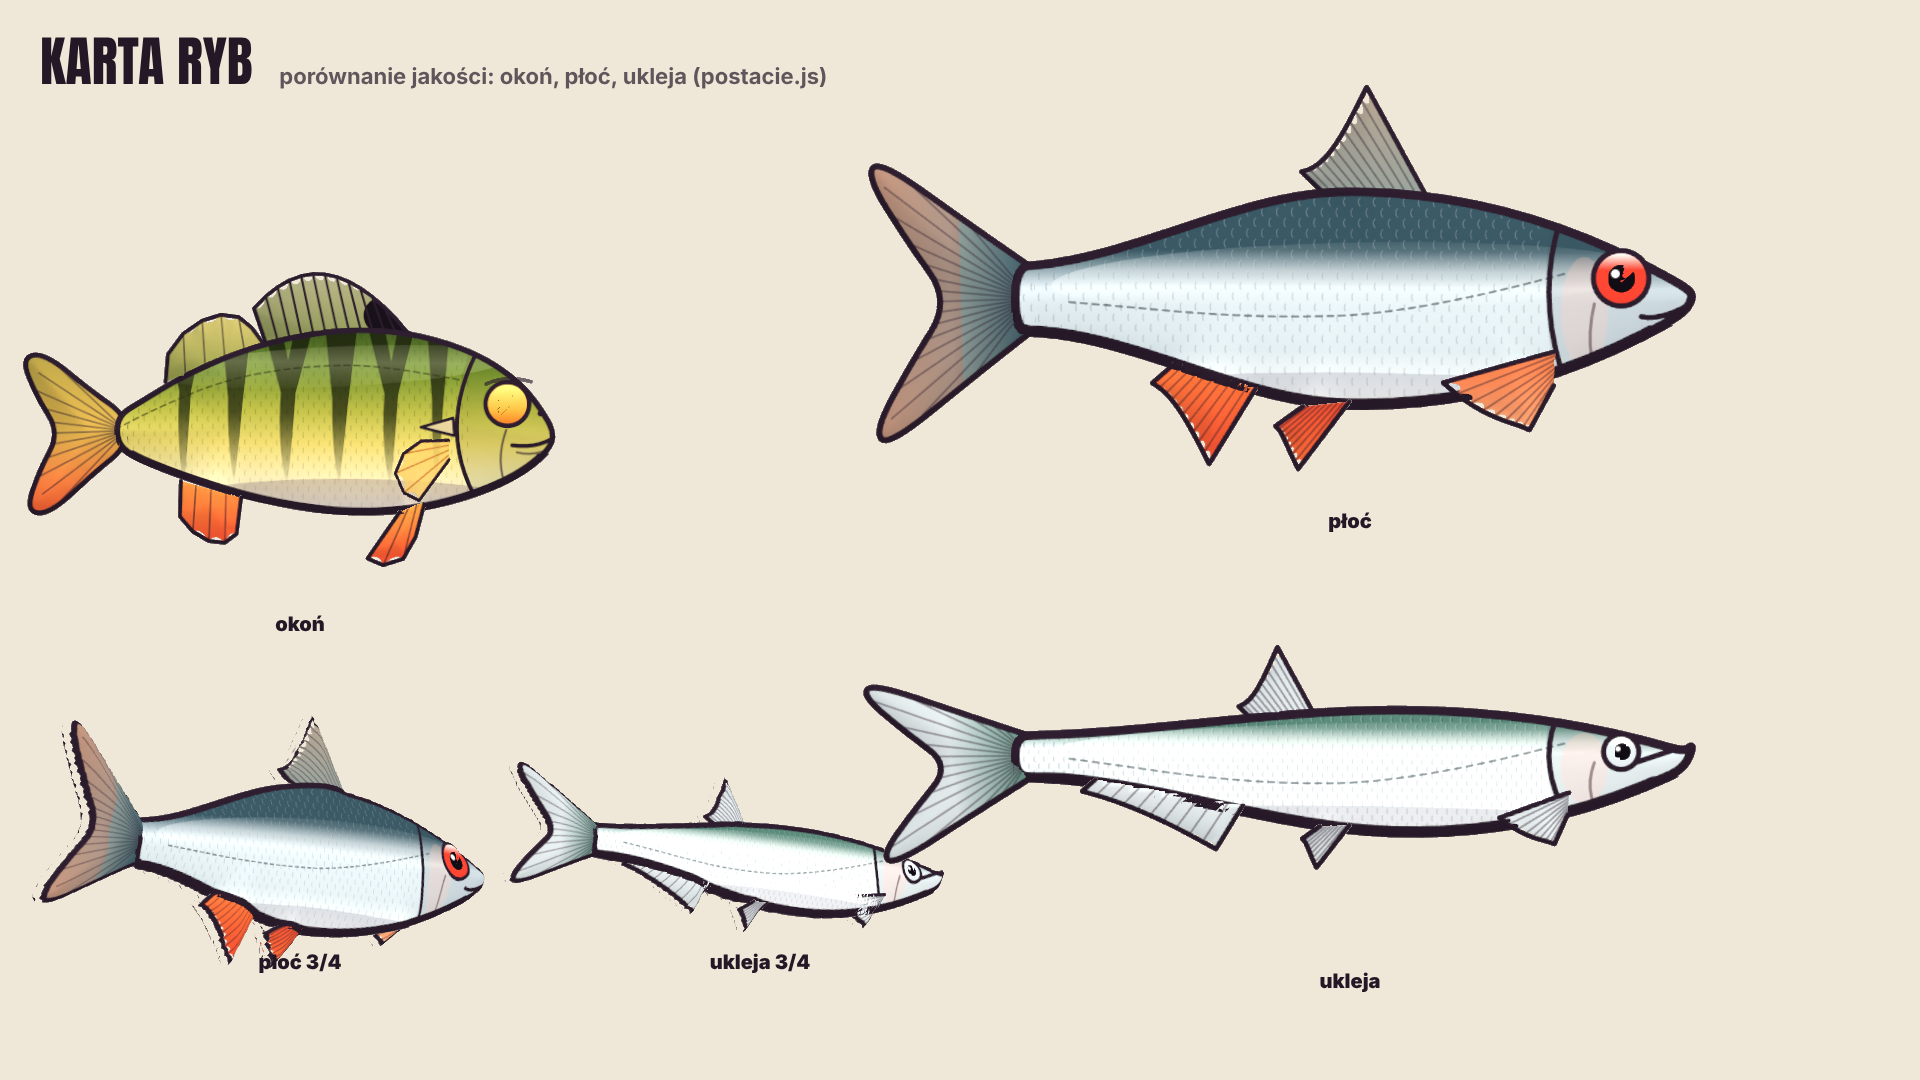
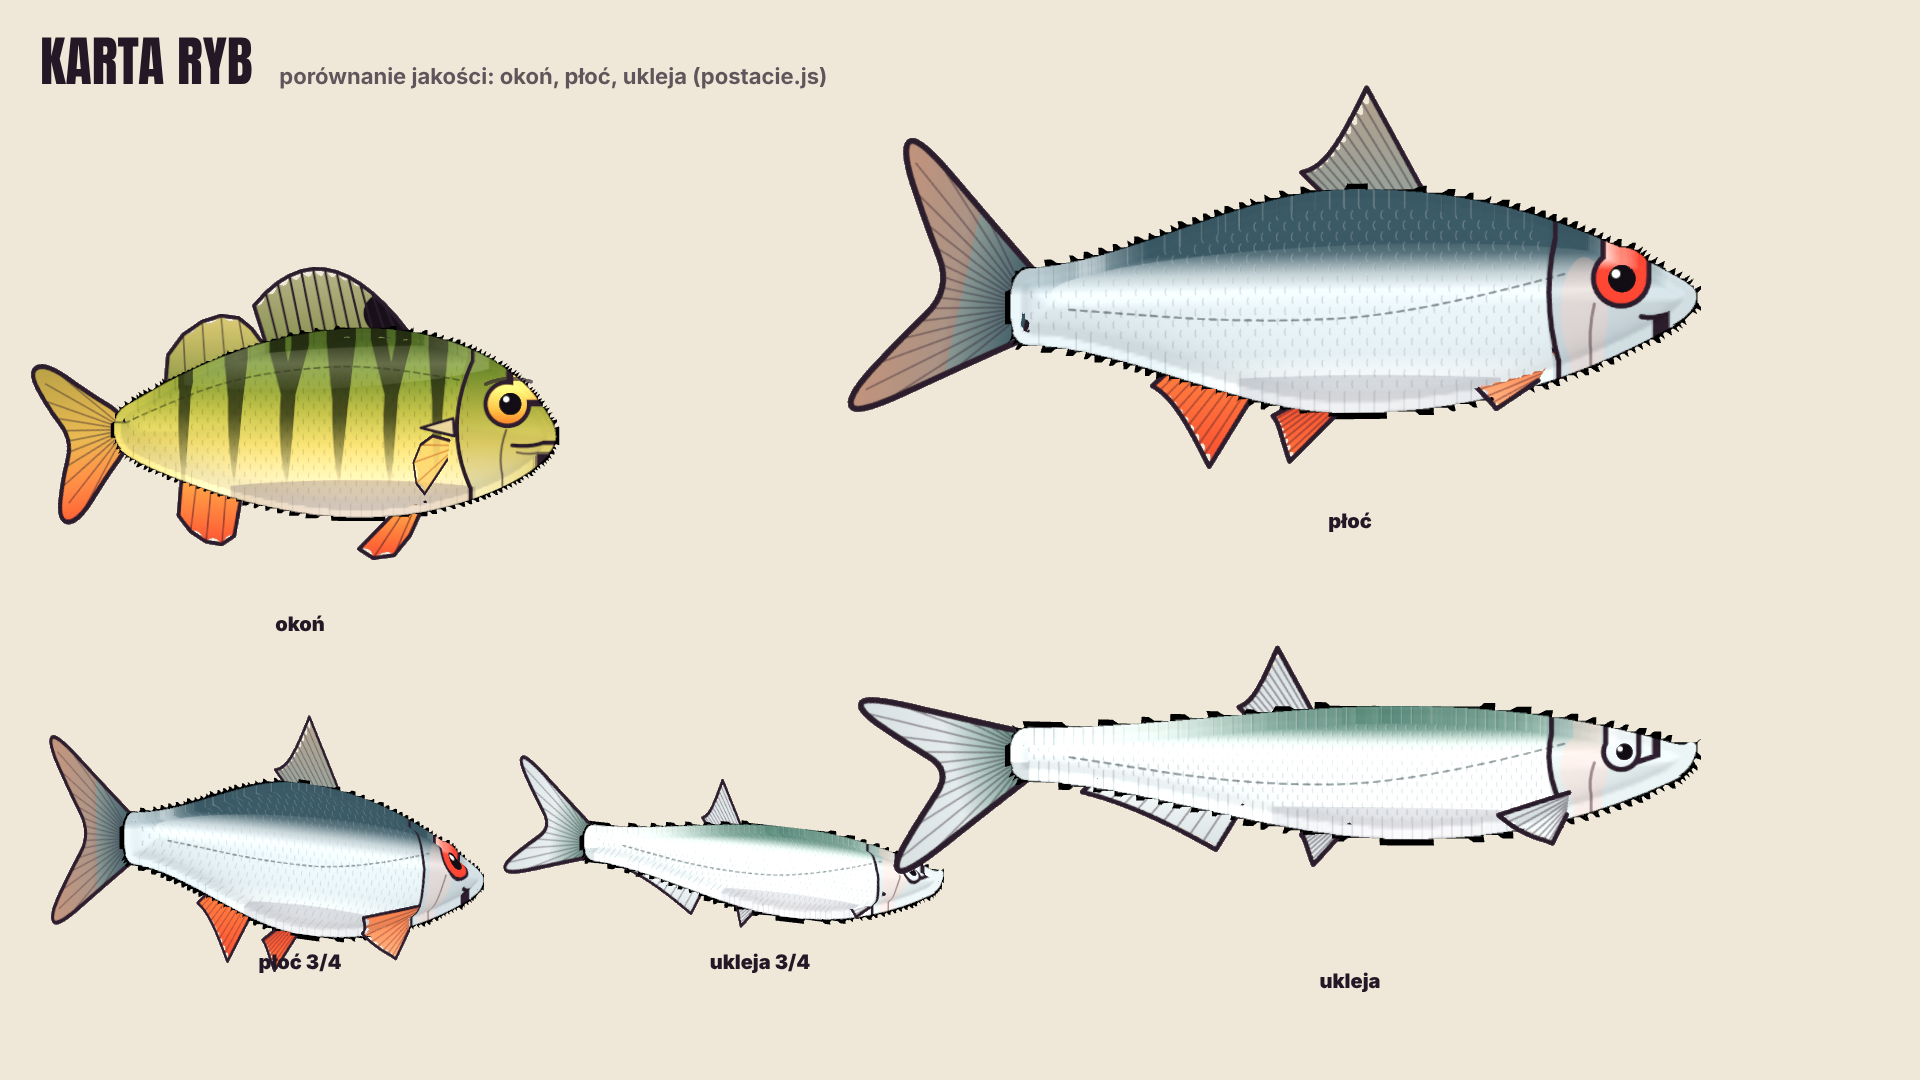
Ryby 3D bez czarnej kreski na boku: kontur z rysunku zamalowany na bryle, gładka sylwetka siatki, obrys sylwetki w kompozycji silnika
Claude-Session: https://claude.ai/code/session_01YFDAx3363ZnHR5mXZwci3a

diff --git a/atlas3d/postacie.js b/atlas3d/postacie.js
@@ -69,15 +69,30 @@ function zloz(czesci, kolejnoscBazowa, opcje3d = {}) {
 // Części wyżej w kolejności (oko, brew, ręka) leżą odrobinę nad powierzchnią, więc widać je z obu stron.
 // T – połowa grubości (px projektu; domyślnie 22% krótszego boku sylwetki), D – szerokość zaokrąglenia brzegu (px).
 // Oświetlenie: Lambert z rysunkiem także jako emisją – kolory jak w rysunku, a światło sceny dodaje objętość.
-const SIATKA = 6;   // krok siatki w px projektu
+const SIATKA = 4;
+// pas przy krawędzi sylwetki (szer px) wypełnia kolorem najbliższego piksela z wnętrza (BFS od wnętrza na zewnątrz); alfa bez zmian
+function zetrzyjKontur(cv, szer, tex) {
+  const g = cv.getContext('2d'), W = cv.width, H = cv.height, im = g.getImageData(0, 0, W, H), d = im.data, N = W * H;
+  const dist = new Float32Array(N).fill(1e9), q = new Int32Array(N); let h = 0, t = 0;
+  for (let i = 0; i < N; i++) if (d[i * 4 + 3] < 40) { dist[i] = 0; q[t++] = i; }
+  while (h < t) { const i = q[h++], x = i % W, y = (i / W) | 0, nd = dist[i] + 1; if (nd > szer + 2) continue;
+    for (const [dx, dy] of [[1, 0], [-1, 0], [0, 1], [0, -1]]) { const xx = x + dx, yy = y + dy; if (xx < 0 || yy < 0 || xx >= W || yy >= H) continue; const j = yy * W + xx; if (dist[j] > nd) { dist[j] = nd; q[t++] = j; } } }
+  // od wnętrza (dist > szer) rozlej kolor na pas – także na przezroczyste piksele (alfa bez zmian), żeby filtrowanie tekstury nie wciągało czerni na brzeg
+  const src = new Int32Array(N).fill(-1); h = 0; t = 0;
+  for (let i = 0; i < N; i++) if (d[i * 4 + 3] >= 40 && dist[i] > szer) { src[i] = i; if (dist[i] <= szer + 2) q[t++] = i; }
+  while (h < t) { const i = q[h++], x = i % W, y = (i / W) | 0;
+    for (const [dx, dy] of [[1, 0], [-1, 0], [0, 1], [0, -1]]) { const xx = x + dx, yy = y + dy; if (xx < 0 || yy < 0 || xx >= W || yy >= H) continue; const j = yy * W + xx;
+      if (src[j] < 0) { src[j] = src[i]; const k = src[i] * 4; d[j * 4] = d[k]; d[j * 4 + 1] = d[k + 1]; d[j * 4 + 2] = d[k + 2]; q[t++] = j; } } }
+  g.putImageData(im, 0, 0); if (tex) tex.needsUpdate = true;
+}   // krok siatki w px projektu
 // bryla – części tworzące objętość (domyślnie największa część, np. ciało ryby); płetwy, ogon i inne części poza bryłą są cienkie
 // (płaskie jak prawdziwa płetwa – bez „dwóch warstw” widocznych od tyłu), a części leżące na bryle przylegają do jej powierzchni
-function nadmuchaj(czesci, { T, D, plaskie = [], bryla } = {}) {
+function nadmuchaj(czesci, { T, D, plaskie = [], bryla, ob = 15 } = {}) {
   if (bryla === undefined) { let mx = 0; for (const c of czesci) { const [a, b, cc, d] = c.userData.bbox, pole = (cc - a) * (d - b); if (pole > mx) { mx = pole; bryla = [c]; } } }
   if (bryla === 'wszystko') bryla = czesci;
   let X0 = 1e9, Y0 = 1e9, X1 = -1e9, Y1 = -1e9;
   for (const c of czesci) { const [a, b, cc, d] = c.userData.bbox; X0 = Math.min(X0, a); Y0 = Math.min(Y0, b); X1 = Math.max(X1, cc); Y1 = Math.max(Y1, d); }
-  const k = 1 / SIATKA * 2, uw = Math.ceil((X1 - X0) * k) + 2, uh = Math.ceil((Y1 - Y0) * k) + 2;   // maska sumy w siatce co 3 px
+  const k = 1, uw = Math.ceil((X1 - X0) * k) + 2, uh = Math.ceil((Y1 - Y0) * k) + 2;   // maska sumy w siatce co 3 px
   const cvU = document.createElement('canvas'); cvU.width = uw; cvU.height = uh; const gu = cvU.getContext('2d');
   const obrazy = c => [c.userData.cv, ...Object.values(c.userData.mapy || {}).map(t => t.image)];
   for (const c of bryla) { const [a, b, cc, d] = c.userData.bbox; for (const im of obrazy(c)) gu.drawImage(im, (a - X0) * k + 1, (b - Y0) * k + 1, (cc - a) * k, (d - b) * k); }
@@ -92,7 +107,7 @@ function nadmuchaj(czesci, { T, D, plaskie = [], bryla } = {}) {
   T = T ?? .22 * Math.min(X1 - X0, Y1 - Y0); D = D ?? Math.max(8, dmax * .85);
   const H = (x, y) => { const gx = (x - X0) * k + 1, gy = (y - Y0) * k + 1, ix = Math.max(0, Math.min(uw - 2, Math.floor(gx))), iy = Math.max(0, Math.min(uh - 2, Math.floor(gy))), fx = gx - ix, fy = gy - iy;
     const v = (dist[iy * uw + ix] * (1 - fx) + dist[iy * uw + ix + 1] * fx) * (1 - fy) + (dist[(iy + 1) * uw + ix] * (1 - fx) + dist[(iy + 1) * uw + ix + 1] * fx) * fy;
-    const u = Math.min(1, v / k / D); return T * Math.sqrt(Math.max(0, 1 - (1 - u) * (1 - u))); };
+    const u = Math.min(1, Math.max(0, v / k - ob) / D); return T * Math.sqrt(Math.max(0, 1 - (1 - u) * (1 - u))); };   // pas konturu z rysunku (ob px) leży płasko na szwie – pod kątem nie widać go jako czarnej kreski na boku
   const kolMax = Math.max(...czesci.map(c => c.userData.kolejnosc)) || 1;
   for (const c of czesci) {
     const { bbox: [a, b, cc, d], s, piwot, res } = c.userData, plaska = plaskie.includes(c);
@@ -109,7 +124,12 @@ function nadmuchaj(czesci, { T, D, plaskie = [], bryla } = {}) {
       for (let j = 0; j <= ny; j++) for (let i = 0; i <= nx; i++) {
         const uzyty = [[0, 0], [-1, 0], [0, -1], [-1, -1]].some(([di, dj]) => { const ii = i + di, jj = j + dj; return ii >= 0 && jj >= 0 && ii < nx && jj < ny && [[0, 0], [1, 0], [0, 1], [1, 1]].some(([ei, ej]) => al[(jj + ej) * (nx + 1) + ii + ei]); });
         if (!uzyty) continue;
-        const x = a + (cc - a) * i / nx, y = b + (d - b) * j / ny, h = al[j * (nx + 1) + i] ? (plaska ? T * .04 : H(x, y)) + eps : 0;
+        let x = a + (cc - a) * i / nx, y = b + (d - b) * j / ny; const h = al[j * (nx + 1) + i] ? (plaska ? T * .04 : H(x, y)) + eps : 0;
+        if (!al[j * (nx + 1) + i] && bryla.includes(c) && bryla !== czesci) {   // węzeł brzegu bryły: dosuń do prawdziwego konturu (gładka sylwetka zamiast schodków siatki)
+          let best = 1e9, bx = x, by = y; const R = SIATKA * 1.6;
+          for (let dy = -R; dy <= R; dy++) for (let dx = -R; dx <= R; dx++) { const gx = Math.round((x + dx - X0) * k + 1), gy = Math.round((y + dy - Y0) * k + 1);
+            if (gx < 0 || gy < 0 || gx >= uw || gy >= uh || !dist[gy * uw + gx]) continue; const dd = dx * dx + dy * dy; if (dd < best) { best = dd; bx = x + dx; by = y + dy; } }
+          if (best < 1e9) { x = bx; y = by; } }
         nr[j * (nx + 1) + i] = poz.length / 3; poz.push((x - piwot[0]) * s, (piwot[1] - y) * s, (strona ? -h : h) * s); uv.push(i / nx, 1 - j / ny); }
       for (let j = 0; j < ny; j++) for (let i = 0; i < nx; i++) { const v00 = nr[j * (nx + 1) + i], v10 = nr[j * (nx + 1) + i + 1], v01 = nr[(j + 1) * (nx + 1) + i], v11 = nr[(j + 1) * (nx + 1) + i + 1];
         if ([v00, v10, v01, v11].some(v => v < 0)) continue;
@@ -117,10 +137,25 @@ function nadmuchaj(czesci, { T, D, plaskie = [], bryla } = {}) {
         if (strona) idx.push(v00, v10, v01, v10, v11, v01); else idx.push(v00, v01, v10, v10, v01, v11); }
     }
     const geo = new THREE.BufferGeometry(); geo.setAttribute('position', new THREE.Float32BufferAttribute(poz, 3)); geo.setAttribute('uv', new THREE.Float32BufferAttribute(uv, 2)); geo.setIndex(idx); geo.computeVertexNormals();
+    if (bryla.includes(c) && bryla !== czesci) {   // szew (h = 0): normalna w płaszczyźnie sylwetki, z gradientu pola odległości (gładka, skierowana na zewnątrz)
+      const P = geo.attributes.position, Nn = geo.attributes.normal, D0 = (x, y) => { const gx = Math.round((x - X0) * k + 1), gy = Math.round((y - Y0) * k + 1); return gx < 0 || gy < 0 || gx >= uw || gy >= uh ? 0 : Math.min(dist[gy * uw + gx], 40); };
+      for (let i = 0; i < P.count; i++) { if (Math.abs(P.getZ(i)) > 1e-6) continue; const x = P.getX(i) / s + piwot[0], y = piwot[1] - P.getY(i) / s;
+        let gx = 0, gy = 0; for (const r of [3, 6, 9]) { gx += D0(x + r, y) - D0(x - r, y); gy += D0(x, y + r) - D0(x, y - r); }
+        const l = Math.hypot(gx, gy); if (l > 1e-6) Nn.setXYZ(i, -gx / l, gy / l, 0); }
+      Nn.needsUpdate = true; }
     c.geometry.dispose(); c.geometry = geo; c.userData.geo0 = geo.attributes.position.array.slice();
+    if (bryla.includes(c) && bryla !== czesci) zetrzyjKontur(c.userData.cv, (ob + 4) * res, c.material.map);   // kontur rysuje otoczka 3D – pas konturu z rysunku zastąp kolorem ciała
     const map = c.material.map; c.material.dispose();
     c.material = new THREE.MeshLambertMaterial({ map, emissiveMap: map, emissive: '#ffffff', emissiveIntensity: 1, color: '#ffffff', transparent: true, alphaTest: .35, depthWrite: true, side: THREE.FrontSide });
     c.material.userData.jasnosc = .5; c.material.color.setScalar(.5);
+    if (bryla.includes(c) && bryla !== czesci) { c.material.alphaTest = 0; c.material.transparent = false; }   // bryła: kształt wyznacza siatka, bez dziur przy brzegu (przez dziury prześwitywał czarny kontur)
+    // kontur bryły (odwrócona otoczka): czarna skorupa widoczna tylko na krawędzi sylwetki pod każdym kątem; wspólna geometria – podąża za falą ciała
+    if (false && bryla.includes(c) && bryla !== czesci) {   // (wyłączone) otoczka 3D – kontur sylwetki rysuje teraz kompozycja silnika (obrys maski postaci)
+      const om = new THREE.MeshBasicMaterial({ color: INK, side: THREE.BackSide, toneMapped: false, polygonOffset: true, polygonOffsetFactor: 40, polygonOffsetUnits: 60 }), gr = (bryla[0] === c ? 10 : 8) * s;
+      om.onBeforeCompile = sh => { sh.vertexShader = sh.vertexShader.replace('#include <begin_vertex>', `#include <begin_vertex>\n  transformed += normalize(normal) * ${gr.toFixed(5)};`); };
+      om.customProgramCacheKey = () => 'otoczka' + gr.toFixed(5);
+      const ot = new THREE.Mesh(c.geometry, om); ot.layers.set(POSTACIE); ot.renderOrder = c.renderOrder - 1; ot.userData.otoczka = true; c.add(ot); c.userData.otoczka = ot;
+    }
   }
 }
 let licznikPostaci = 0;

diff --git a/atlas3d/silnik.js b/atlas3d/silnik.js
@@ -67,6 +67,10 @@ const kompozycja = new THREE.ShaderMaterial({
       e *= 1. - smoothstep(fogR.x, fogR.y, z) * .75;
       e *= 1. - maska;
       col = mix(col, mix(ink, fogC, smoothstep(fogR.x, fogR.y, z) * .3), e);
+      // kontur sylwetki postaci 3D (ryby, wędkarz, przynęty): obrys maski z zewnątrz – czysta linia pod każdym kątem
+      if (maska < .5) { float o = 0.; for (int i = 0; i < 12; i++) { float a = float(i) * .5236; vec2 d = vec2(cos(a), sin(a)) * texel * 3.2;
+          o = max(o, texture2D(tM, vUv + d).a); o = max(o, texture2D(tM, vUv + d * .5).a); }
+        col = mix(col, ink, smoothstep(.3, .7, o)); }
       // odległość do pierwszej powierzchni (postać 2D przed światem ma pierwszeństwo)
       if (maska > .5 && rawM < raw) { raw = rawM; z = Zt(tMD, vUv); }
       vec4 v = invProj * vec4(vUv * 2. - 1., 1., 1.); vec3 vd = normalize(v.xyz / v.w);
@@ -128,7 +132,7 @@ function przygasWoda(mt) { mt.onBeforeCompile = sh => { sh.uniforms.uNad = WODA_
     sh.fragmentShader = sh.fragmentShader.replace('void main() {', 'uniform float uNad; uniform vec3 uWodaK; varying float vWy;\nvoid main() {')
       .replace('#include <opaque_fragment>', '#include <opaque_fragment>\n  gl_FragColor.rgb = mix(gl_FragColor.rgb, uWodaK, uNad * step(vWy, -.02) * clamp(.3 + max(0., -vWy) * .16, 0., .82));'); };
   mt.customProgramCacheKey = () => 'przygasWoda'; }
-function owin(grp, kier = 1) { grp.traverse(o => { if (o.isMesh && o.material) przygasWoda(o.material); }); const b = new THREE.Group(); grp.rotation.y = kier < 0 ? Math.PI : 0; b.add(grp); b.userData.wnetrze = grp; b.userData.pion = true; return b; }
+function owin(grp, kier = 1) { grp.traverse(o => { if (o.isMesh && o.material && !o.userData.otoczka) przygasWoda(o.material); }); const b = new THREE.Group(); grp.rotation.y = kier < 0 ? Math.PI : 0; b.add(grp); b.userData.wnetrze = grp; b.userData.pion = true; return b; }
 const okon = (wys, o = {}) => { const g = stworzOkonia({ wys, mina: o.mina }); const b = owin(g, o.lewo ? -1 : 1), s = wys / 560;
   b.userData.ryba = { kier: o.lewo ? -1 : 1, wys, dl: wys * 1.75, anim: g.userData.okon.anim, st: o.st || {},
     pysk: () => { b.updateMatrixWorld(true); return g.localToWorld(new THREE.Vector3((928 - 500) * s, (290 - 304) * s, 0)); } }; return b; };   // kącik pyska (żyłka po braniu)
@@ -673,13 +677,13 @@ window.klatka = tr => { const t = naProjekt(tr);
       if (u.ryba.branieOd !== undefined) u.ryba.st.paszcza = t > u.ryba.branieOd - .32 && t < u.ryba.branieOd + .22 ? 1 : 0;
       u.ryba.anim(t, { tempo: 1 + Math.min(2.5, Math.abs(v) * 1.5), ...u.ryba.st });
       tmpC.copy(TINT).lerp(TINT_WODA, Math.min(.5, .15 + Math.max(0, -m.position.y) / 14));
-      m.traverse(o => { if (o.isMesh) tintuj(o.material, tmpC); });
+      m.traverse(o => { if (o.isMesh && !o.userData.otoczka) tintuj(o.material, tmpC); });
       const wal = u.ryba.walka ? u.ryba.walka(t) : 0;   // walka w holu: gwałtowne potrząsanie łbem, przechyły, szybka praca ogona
       m.rotateZ(.035 * Math.sin(t * 1.3 + u.p0.x) + wal * (.22 * Math.sin(t * 13) + .1 * Math.sin(t * 7.7)));
       if (wal) { u.wnetrze.rotation.x = .35 * Math.sin(t * 9.5); u.ryba.anim(t, { tempo: 3.2, ...u.ryba.st, kolce: 1.05 }); } else u.wnetrze.rotation.x = 0;
     }
     if (u.animuj) u.animuj(t);
-    if (u.postac) { u.postac.anim(t, u.postac.st); m.traverse(o => { if (o.isMesh) tintuj(o.material, TINT); }); }
+    if (u.postac) { u.postac.anim(t, u.postac.st); m.traverse(o => { if (o.isMesh && !o.userData.otoczka) tintuj(o.material, TINT); }); }
   }
   for (const [tx, vx, vy, m] of tafle) { tx.offset.x = t * vx; tx.offset.y = t * vy; if (m) m.visible = Math.abs(camera.position.y) > .12; }
   WODA_NAD.value = camera.position.y > .12 ? 1 : 0;   // przygaszanie zanurzonych obiektów tylko przy patrzeniu znad wody   // kamera w tafli: płaszczyzna wody widziana na krawędź zasłaniała brzeg – wtedy wodę rysuje tylko menisk

diff --git a/.claude/skills/wisnia-animacja-2-5d/SKILL.md b/.claude/skills/wisnia-animacja-2-5d/SKILL.md
@@ -129,6 +129,9 @@ QA po każdej zmianie:
   `zanurzone()` w silniku rysuje obiekty całkowicie zanurzone PO tafli (pal pod wodą ma ten sam brąz co nad wodą). Dno zostaje pod taflą.
 - Ujęcie pół na pół: kamera na y = 0 widziała taflę od spodu „na krawędź” (niebieski pas na brzegu) – tafla jest ukrywana, gdy |y kamery| < 0,12.
 - Ryba 3D z „dwiema warstwami” od tyłu: płetwy i ogon dostawały grubość z sumy sylwetki. Objętość liczona tylko z bryły (`bryla`, domyślnie największa część), płetwy cienkie.
+- Ryba 3D pod kątem miała czarną kreskę na boku: to kontur z rysunku leżący na zaokrąglonej powierzchni. Dla bryły kontur z rysunku jest zamalowany
+  kolorem ciała (`zetrzyjKontur`), siatka bez alphaTest (kształt z siatki, węzły brzegu dosunięte do konturu), a sylwetkę obrysowuje kompozycja silnika
+  (obrys maski postaci) – linia jest czysta pod każdym kątem. Inverted hull (otoczka) dawał ząbki i prześwity – wyłączony.
 - Rośliny nie mogą wchodzić w siebie (trzciny w grzybienie): kępy stawiaj z odstępem większym niż suma ich rozrzutów; trzciny i pałki w wodzie (0,2–0,6 m), nie na piasku.
 - Liście grzybienia z brzegiem wygiętym w dół chowały się pod taflę („zalane” liście) – brzeg tylko do góry, liść y ≥ 0,02.
 - Obrys `Shape` z powtórzonym punktem startu psuł triangulację (rysował się tylko klin) – `closePath()` bez dublowania.
